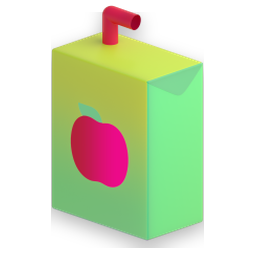
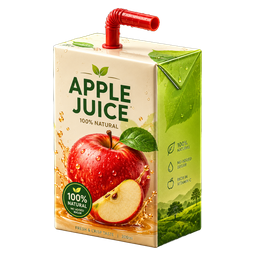
Use custom apple juice image

diff --git a/index.html b/index.html
@@ -83,7 +83,7 @@
       </div>
     </div>
 
-    <script src="assets-vocabulary.js?v=20260604-drink3d1"></script>
-    <script src="app.js?v=20260604-drink3d1"></script>
+    <script src="assets-vocabulary.js?v=20260604-applejuice1"></script>
+    <script src="app.js?v=20260604-applejuice1"></script>
   </body>
 </html>

diff --git a/assets-vocabulary.js b/assets-vocabulary.js
@@ -718,7 +718,7 @@ window.assetVocabulary = {
     {
       "word": "Apple Juice",
       "vi": "Apple Juice",
-      "image": "assets/drinks/apple-juice.png?v=20260604-drink3d1"
+      "image": "assets/drinks/apple-juice.png?v=20260604-applejuice1"
     },
     {
       "word": "Bubble Tea",

diff --git a/assets/drinks/SOURCES.md b/assets/drinks/SOURCES.md
@@ -9,7 +9,7 @@ Some drink PNGs combine one main Fluent Emoji asset with a small Fluent Emoji ba
 
 | File | Main asset | Badge asset |
 | --- | --- | --- |
-| `apple-juice.png` | Beverage box | - |
+| `apple-juice.png` | User-provided apple juice carton image, processed to transparent PNG | - |
 | `bubble-tea.png` | Bubble tea | - |
 | `coca-cola.png` | Cup with straw | - |
 | `coffee.png` | Hot beverage | - |
